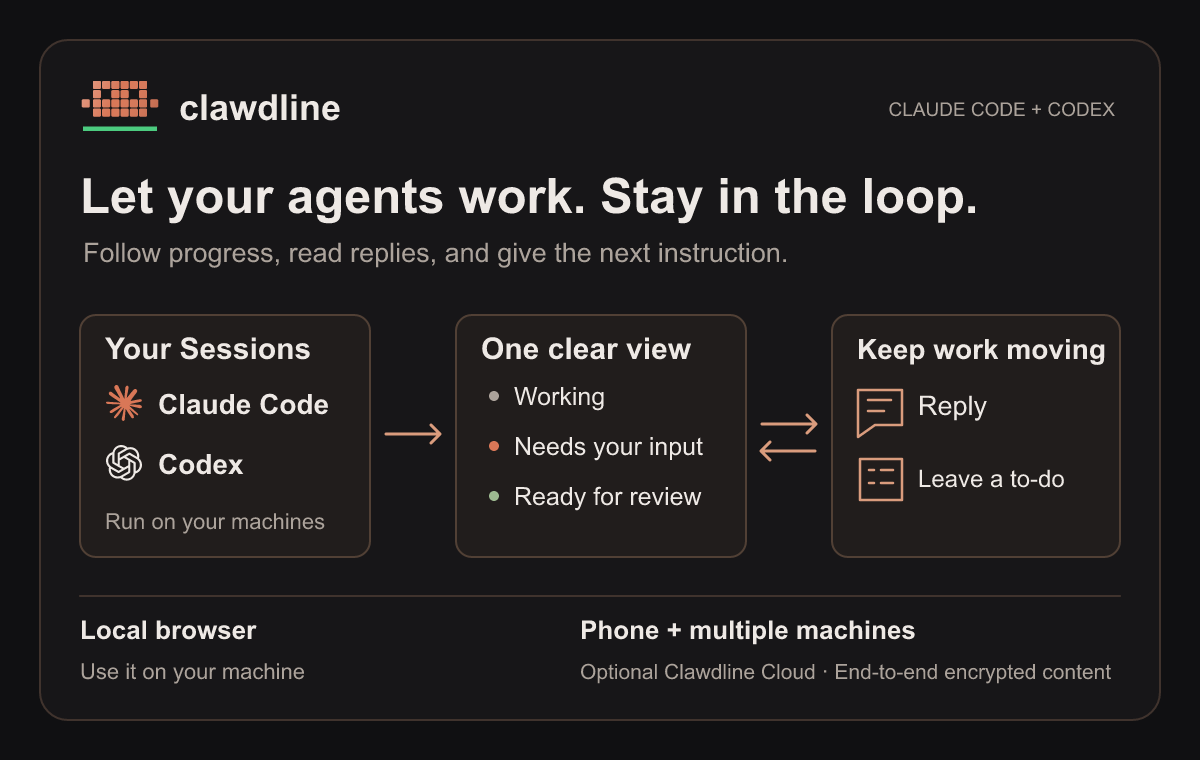
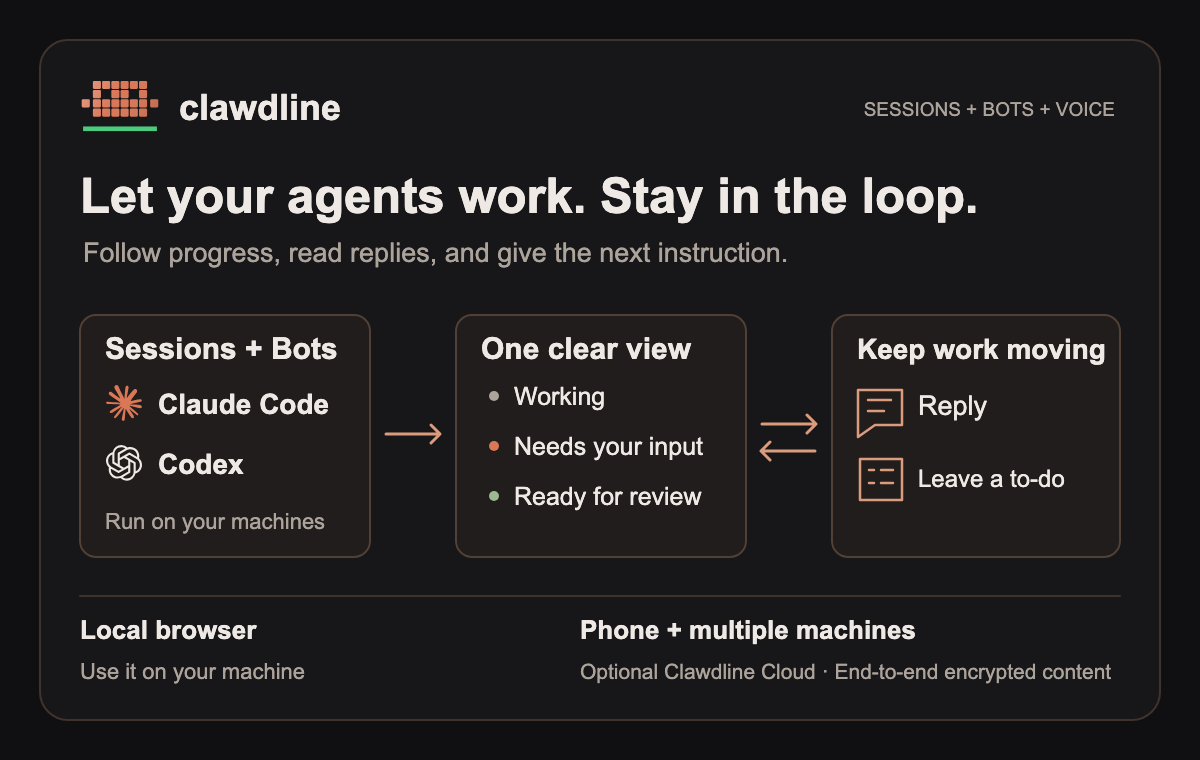
The README opens with Sessions and Bots, the voice copilot, the Bots tower and Lantern Deep
Both READMEs now lead with Clawdline's two defining traits, Sessions and Bots
on one platform and the voice copilot, followed by the Bots tower and the
Lantern Deep view, each with a language-matched image. The voice section moved
up from further down. The overview diagram's first column now reads Sessions +
Bots and its corner label names the voice copilot.

The tower images are the synthetic Bots fixture captured with headless
Chromium at 1440x900, 2x; the Lantern Deep images are cropped from the curated
catalog preview. No real Session or Bot data appears.

The Herdr and T3 Code comparison was rechecked against herdr.dev, the
herdr-app README, the T3 Code README and its remote-access guide on
2026-11-22. Herdr's phone app accepts voice input and its community gallery
has game-like layouts, so the Clawdline bullet describes what it offers
without claiming either is exclusive.

Left undone: the building cross-section did not finish loading its picture
under headless virtual time, so the single-floor view is shown instead.

Claude-Session: https://claude.ai/code/session_01HoDJHzbyxnKEousjQxutd9

diff --git a/README.zh-TW.md b/README.zh-TW.md
@@ -7,15 +7,45 @@
 [![License](https://img.shields.io/badge/license-MIT-blue.svg)](LICENSE)
 [![Go](https://img.shields.io/badge/Go-1.25-00ADD8.svg)](go.mod)
 
-**透過 Clawdline Cloud，在手機同一份清單查看多台機器的 Claude Code 和 Codex Session，點開就能回覆或留待辦。**
+**Clawdline 把你的 Claude Code、Codex Session 與長期陪你工作的 Bot 整合在同一個平台，還有一位能直接打電話詢問的語音助理，告訴你哪裡需要你。**
 
-![Clawdline 將 Claude Code 與 Codex Session 集中在同一處，讓你掌握進度、回覆並留待辦；本機瀏覽器在你的機器上使用，選用 Cloud 可從手機及多台機器接續工作。](docs/assets/readme-overview-zh-Hant.png)
+![Clawdline 將 Session 與 Bot 集中在同一處，讓你掌握進度、回覆並留待辦；本機瀏覽器在你的機器上使用，選用 Cloud 可從手機及多台機器接續工作。](docs/assets/readme-overview-zh-Hant.png)
+
+### 🧩 Session 與 Bot 整合在同一個平台
+
+**Session** 是你原本就在用的 Claude Code、Codex 對話；**Bot** 是綁定在某個 Project 的長期助理：記得你交代過的事，用它所屬 Agent 的工具在專案裡工作，較大的修改則透過 Clawdline 的 Broker 交給隔離的 worker（與 Session 派工走同一條路），結果再回到同一個聊天室。兩者都在同一個主控台，旁邊就是終端機、選用的看板與通知。Bot 目前在 macOS 上執行。[Session](docs/user/sessions.md)・[Bot](docs/bots.md)
+
+### 🎙 用語音掌握你的 Session
+
+打給語音助理，聽它回報哪裡需要你、查詢 Session 進度或留言板目前的 Lead，並開啟相關對話。送訊息前，它會先念出收件 Session 與完整內容，等你同意才送出。綠色膠囊保留當通工具紀錄，常用指令在同區右側，下方顯示時間與金額。
+
+<a href="https://clawdline.com/docs/voice-copilot/"><img src="docs/assets/voice-copilot-call-zh-tw.png" width="390" alt="語音助理回報示範 Session，顯示綠色工具膠囊、右側常用指令、通話時間與金額。" /></a>
+
+*目前 Cloud／dev 介面，使用合成示範資料。語音通話使用你自己的 OpenAI API key。*
+
+[語音助理使用指南與示範](https://clawdline.com/docs/voice-copilot/?lang=zh-TW) · [桌機影片（2:43）](https://media.clawdline.com/voice-copilot/demo-zh-Hant-f3a541a44435.mp4) · [手機影片（2:35）](https://media.clawdline.com/voice-copilot/demo-zh-Hant-phone-c85af090b6cb.mp4)。實際 GPT-Live 通話使用虛構 Session 與預錄的 AI 使用者語音，畫面金額為示例。先保留 30 秒通話畫面，再縮小圓球、收成浮球後操作。
+
+### 🏙 Bot 住在一棟大樓裡
+
+![Bots 大樓：像素風的賽博龐克樓層，工作中的 Bot 坐在辦公桌前並掛著名牌，等待允許的 Bot 排隊，有新回覆的 Bot 帶著標記，上方計數列顯示 Bot、等你、工作中與新回覆的數量。](docs/assets/bots-tower-zh-Hant.webp)
+
+把 Bots 切換到大樓檢視，每個 Project 會分到像素風大樓裡的一層樓。工作中的 Bot 坐在辦公桌前，等你的排隊，出錯的到維修角落，閒置的在休息區散步，一天沒動靜的就去睡覺。有未讀回覆的 Bot 會帶著「有新回覆」標記；點一下 Bot 就能打開它的聊天室，樓層畫面照常運作。[Bots 大樓](docs/bots.md#the-bots-tower)
+
+*畫面為合成的示範 Bot。*
+
+### 🏮 燈淵：把 Session 變成一場遊戲
+
+![燈淵：手繪的地底洞窟，每個 Session 都是一位小旅人；兩位需要你的旅人站在燈下一臉疑惑，其他旅人巡邏或休息，空中有生物飄過。](docs/assets/lantern-deep-zh-Hant.webp)
+
+安裝燈淵視圖後，每個 Project 都是一座手繪的地底洞室，每個 Session 則是十二位逐格動畫小旅人之一。工作中的旅人在戰鬥，需要你的站在暖光燈下一臉疑惑，工作完成的在營火旁休息或睡覺；頭上的生命條代表剩下多少 context。點選旅人就能打開它的 Session。燈淵是實驗中的 View Plugin，可在「探索視圖」安裝。[燈淵](plugins/session-lantern-deep/README.md)・[View Plugin](docs/plugins/view-plugin-v1.md)
+
+*畫面為合成的示範 Session；靜態圖暫停了動畫。*
 
 ## 與 Herdr、T3 Code 的差異
 
-- 🖥 **Herdr：在持續運行的終端執行 Agent 的桌面與手機 App。** Agent 在本機與 SSH 機器的終端持續運行，先列出需要你處理的 Agent，Agent 也能派出幫手並收到回報。提供 macOS、Windows、Linux 原生 App，iPhone、iPad、Android 手機 App，以及原本的 TUI。[Herdr 官網](https://herdr.dev/)・[桌面 App](https://github.com/herdrdev/herdr-app#readme)・[herdr-core](https://github.com/herdrdev/herdr-core#readme)
-- 💬 **T3 Code：操作程式開發 Agent 的 App。** 透過桌機、網頁與手機 App 操作 Agent，支援本機與遠端環境。[T3 Code 介紹](https://github.com/pingdotgg/t3code#readme)・[遠端存取](https://github.com/pingdotgg/t3code/blob/main/docs/user/remote-access.md)
-- 🔁 **Clawdline：協調 Session，追蹤工作交付。** 在瀏覽器集中管理已使用的 Claude Code 和 Codex Session；留下待辦、回答 Agent 便條並派工，選用看板追蹤驗證、合併與部署；清楚區分「Agent 回報完成」與「已驗證合併」。選用 Cloud 後，也能從手機同一份清單掌握多台機器。[Session](docs/user/sessions.md)・[派工](docs/user/clawdfather-and-dispatch.md)・[看板](docs/user/board.md)
+- 🖥 **Herdr：管理終端機與程式開發 Agent 的桌面 App。** 用 space 整理工作、先看到哪些 Agent 需要你，並透過 herdr-core 讓本機與 SSH 機器上的終端機持續運行；Agent 也能派出幫手並收到回報。提供 macOS、Windows、Linux 原生 App，iPhone、iPad、Android 手機 App，另有獨立的 TUI，以及社群製作的版面與 mod 圖庫。[Herdr 官網](https://herdr.dev/)・[桌面 App](https://github.com/herdrdev/herdr-app#readme)・[herdr-core](https://github.com/herdrdev/herdr-core#readme)
+- 💬 **T3 Code：開源的程式開發 Agent 控制台。** 透過桌機、網頁與手機 App 操作 Claude Code、Codex、Cursor、OpenCode 及其他 ACP Agent；可經 T3 Connect、區域網路、Tailscale 或 SSH 連接其他機器，也能讓一個 Agent 把任務交給另一個。[T3 Code 介紹](https://github.com/pingdotgg/t3code#readme)・[遠端存取](https://github.com/pingdotgg/t3code/blob/main/docs/user/remote-access.md)
+- 🔁 **Clawdline：Session 與 Bot 集中在一處，再加上語音助理。** 在瀏覽器主控台集中你已在用的 Claude Code、Codex Session 與綁定 Project 的長期 Bot；打給語音助理聽它回報哪裡需要你，也能用 Bots 大樓或燈淵這類遊戲視圖看工作進展。留下待辦、回答 Agent 便條並派工，選用看板追蹤驗證、合併與部署；清楚區分「Agent 回報完成」與「已驗證合併」。選用 Cloud 後，也能從手機同一份清單掌握多台機器。[Session](docs/user/sessions.md)・[Bot](docs/bots.md)・[語音助理](docs/user/voice-copilot.md)・[看板](docs/user/board.md)
 
 ## 你可以做什麼
 
@@ -47,16 +77,6 @@
 - 💡 **問答、Issues 與 Ideas 社群（Cloud）** — 閱讀討論、詢問使用方式、回報問題與提出功能建議。任何人都能閱讀，登入後可參與；回覆與實際交付進度分開追蹤。[社群指南](docs/user/help-center.zh-TW.md)・[公開邊界](docs/cloud-support.md)
 
 Clawdline 的常駐服務與主控台在你的機器上執行，管理你已使用的 Claude Code 和 Codex Session。Cloud 是選用功能；中繼只傳送密文。[運作方式](docs/architecture.md)
-
-## 用語音掌握你的 Session
-
-打給語音助理，聽它回報哪裡需要你、查詢 Session 進度或留言板目前的 Lead，並開啟相關對話。送訊息前，它會先念出收件 Session 與完整內容，等你同意才送出。綠色膠囊保留當通工具紀錄，常用指令在同區右側，下方顯示時間與金額。
-
-<a href="https://clawdline.com/docs/voice-copilot/"><img src="docs/assets/voice-copilot-call-zh-tw.png" width="390" alt="語音助理回報示範 Session，顯示綠色工具膠囊、右側常用指令、通話時間與金額。" /></a>
-
-*目前 Cloud／dev 介面，使用合成示範資料。語音通話使用你自己的 OpenAI API key。*
-
-[語音助理使用指南與示範](https://clawdline.com/docs/voice-copilot/?lang=zh-TW) · [桌機影片（2:43）](https://media.clawdline.com/voice-copilot/demo-zh-Hant-f3a541a44435.mp4) · [手機影片（2:35）](https://media.clawdline.com/voice-copilot/demo-zh-Hant-phone-c85af090b6cb.mp4)。實際 GPT-Live 通話使用虛構 Session 與預錄的 AI 使用者語音，畫面金額為示例。先保留 30 秒通話畫面，再縮小圓球、收成浮球後操作。
 
 ## 跨機器 Session 協作（Cloud）
 

diff --git a/README.md b/README.md
@@ -7,15 +7,45 @@
 [![License](https://img.shields.io/badge/license-MIT-blue.svg)](LICENSE)
 [![Go](https://img.shields.io/badge/Go-1.25-00ADD8.svg)](go.mod)
 
-**With Clawdline Cloud, see Claude Code and Codex Sessions across your machines in one phone list, then open one to reply or leave a to-do.**
+**Clawdline brings your Claude Code and Codex Sessions and your long-lived Bots onto one platform, and gives you a voice copilot you can call to hear what needs you.**
 
-![Clawdline brings Claude Code and Codex Sessions into one view so you can follow progress, reply and leave to-dos. Local browser use runs on your machine; optional Cloud adds phones and multiple machines.](docs/assets/readme-overview-en.png)
+![Clawdline brings Sessions and Bots into one view so you can follow progress, reply and leave to-dos. Local browser use runs on your machine; optional Cloud adds phones and multiple machines.](docs/assets/readme-overview-en.png)
+
+### 🧩 Sessions and Bots on one platform
+
+**Sessions** are the Claude Code and Codex conversations you already run. **Bots** are long-lived assistants bound to a Project: they remember what you tell them, work with their agent's own tools, and hand larger changes to an isolated worker through Clawdline's Broker, the same path Sessions use to dispatch work, with the result returning to the same chat. Both live in one console, beside the terminal, the optional Board and notifications. Bots currently run on macOS. [Sessions](docs/user/sessions.md) · [Bots](docs/bots.md)
+
+### 🎙 A voice copilot for your Sessions
+
+Call the voice copilot to hear what needs you, ask about a Session's progress or a message board's current Lead, and open the relevant conversation. It reads the full recipient and message back for your agreement before sending. Green capsules keep the call's tool activity, with quick commands beside them and duration and amount below.
+
+<a href="https://clawdline.com/docs/voice-copilot/"><img src="docs/assets/voice-copilot-call-en.png" width="390" alt="Voice copilot reporting on sample Sessions, with green tool-history capsules, Quick commands, call duration and amount." /></a>
+
+*Current Cloud/dev interface with synthetic example data. Voice calls use your own OpenAI API key.*
+
+[Voice copilot guide and demo](https://clawdline.com/docs/voice-copilot/) · [Desktop video (1:51)](https://media.clawdline.com/voice-copilot/demo-en-d2857cd36962.mp4) · [Phone video (1:55)](https://media.clawdline.com/voice-copilot/demo-en-phone-21cfaf2e686a.mp4). Recorded GPT-Live calls with fictional Sessions and prerecorded AI user speech; on-screen amounts are examples. The call sheet stays open for 30 seconds before shrinking to a floating bubble.
+
+### 🏙 Your Bots live in a tower
+
+![The Bots tower: a pixel-art cyberpunk floor where working Bots sit at desks with name tags, a Bot waiting for permission stands in line, Bots with new replies carry a badge, and a counter bar shows Bots, waiting, working and new replies.](docs/assets/bots-tower-en.webp)
+
+Switch Bots to the tower view and every Project gets a floor of a pixel-art building. Working Bots sit at desks, waiting ones queue, failing ones go to the repair corner, idle ones stroll the lounge, and Bots quiet for a day go to sleep. A New reply badge marks unread replies, and selecting a Bot opens its chat while the floor keeps running. [The Bots tower](docs/bots.md#the-bots-tower)
+
+*Synthetic example Bots.*
+
+### 🏮 Lantern Deep: watch your Sessions as a game
+
+![Lantern Deep: a hand-painted cavern where Sessions are small wanderers; two stand puzzled under a lantern because they need you, others patrol and rest, and creatures drift through the air.](docs/assets/lantern-deep-en.webp)
+
+Install the Lantern Deep view and every Project becomes a hand-painted underground chamber, every Session one of twelve frame-by-frame animated wanderers. A working wanderer fights, one that needs you stands puzzled under a warm beacon, and finished work rests or sleeps by the campfire. A life bar shows how much context is still free. Select a wanderer to open its Session. Lantern Deep is an experimental View Plugin offered under Explore views. [Lantern Deep](plugins/session-lantern-deep/README.md) · [View Plugins](docs/plugins/view-plugin-v1.md)
+
+*Synthetic example Sessions; motion is paused in the still image.*
 
 ## How Clawdline differs from Herdr and T3 Code
 
-- 🖥 **Herdr — desktop and phone apps for Agents in persistent terminals.** Run Agents in terminals that keep going on local and SSH machines, see which ones need you first, and let an Agent start helper Agents and hear back. Native apps for macOS, Windows and Linux, a phone app for iPhone, iPad and Android, and the original TUI. [Herdr](https://herdr.dev/) · [Desktop app](https://github.com/herdrdev/herdr-app#readme) · [herdr-core](https://github.com/herdrdev/herdr-core#readme)
-- 💬 **T3 Code — an app for working with coding Agents.** Control Agents through desktop, web and mobile apps, including local and remote environments. [T3 Code overview](https://github.com/pingdotgg/t3code#readme) · [Remote access](https://github.com/pingdotgg/t3code/blob/main/docs/user/remote-access.md)
-- 🔁 **Clawdline — coordinate Sessions and track delivery.** Bring your existing Claude Code and Codex Sessions into a browser console. Leave to-dos, answer Agent notes, dispatch work, and track verification, merge and deployment on the optional Board. A delivery report and a verified Git landing stay distinct. Cloud adds one phone list across machines. [Sessions](docs/user/sessions.md) · [Dispatch](docs/user/clawdfather-and-dispatch.md) · [Board](docs/user/board.md)
+- 🖥 **Herdr — a desktop app for terminals and coding agents.** Keep work in spaces, see which agents need you, and leave terminals running on local and SSH machines through herdr-core. An agent can start helpers and hear back. Native apps for macOS, Windows and Linux, phone apps for iPhone, iPad and Android, a separate TUI, and a community gallery of layouts and mods. [Herdr](https://herdr.dev/) · [Desktop app](https://github.com/herdrdev/herdr-app#readme) · [herdr-core](https://github.com/herdrdev/herdr-core#readme)
+- 💬 **T3 Code — an open-source control plane for coding agents.** Drive Claude Code, Codex, Cursor, OpenCode and other ACP agents through desktop, web and mobile apps, connect other machines over T3 Connect, LAN, Tailscale or SSH, and let one agent delegate a task to another. [T3 Code overview](https://github.com/pingdotgg/t3code#readme) · [Remote access](https://github.com/pingdotgg/t3code/blob/main/docs/user/remote-access.md)
+- 🔁 **Clawdline — Sessions and Bots in one place, with a voice copilot.** Bring your existing Claude Code and Codex Sessions and long-lived Project Bots into one browser console. Call the voice copilot to hear what needs you, and follow the work as a Bots tower or in a game view such as Lantern Deep. Leave to-dos, answer Agent notes, dispatch work, and track verification, merge and deployment on the optional Board; a delivery report and a verified Git landing stay distinct. Cloud adds one phone list across machines. [Sessions](docs/user/sessions.md) · [Bots](docs/bots.md) · [Voice copilot](docs/user/voice-copilot.md) · [Board](docs/user/board.md)
 
 ## What you can do
 
@@ -49,16 +79,6 @@
 Clawdline runs the daemon and console on your machine and works with Claude Code and Codex Sessions you already use. Cloud is optional; its relay carries encrypted data. [How it works](docs/architecture.md)
 
 Official [Grok Build coding Sessions](docs/grok-cli.md) also support native file edits, tool approvals and worktree dispatch after CLI sign-in.
-
-## Talk to your Sessions by voice
-
-Call the voice copilot to hear what needs you, ask about a Session's progress or a message board's current Lead, and open the relevant conversation. It reads the full recipient and message back for your agreement before sending. Green capsules keep the call's tool activity, with quick commands beside them and duration and amount below.
-
-<a href="https://clawdline.com/docs/voice-copilot/"><img src="docs/assets/voice-copilot-call-en.png" width="390" alt="Voice copilot reporting on sample Sessions, with green tool-history capsules, Quick commands, call duration and amount." /></a>
-
-*Current Cloud/dev interface with synthetic example data. Voice calls use your own OpenAI API key.*
-
-[Voice copilot guide and demo](https://clawdline.com/docs/voice-copilot/) · [Desktop video (1:51)](https://media.clawdline.com/voice-copilot/demo-en-d2857cd36962.mp4) · [Phone video (1:55)](https://media.clawdline.com/voice-copilot/demo-en-phone-21cfaf2e686a.mp4). Recorded GPT-Live calls with fictional Sessions and prerecorded AI user speech; on-screen amounts are examples. The call sheet stays open for 30 seconds before shrinking to a floating bubble.
 
 ## Sessions that work across machines (Cloud)
 

diff --git a/docs/share-images.md b/docs/share-images.md
@@ -16,6 +16,14 @@ green underline. Regenerate the cross-machine diagrams with
 `python3 tools/render-cross-machine-diagram.py`; render each editable overview SVG
 with the pinned Resvg version above after changing its artwork. The diagrams retain
 their existing text, dimensions and workflow layout.
+On 2026-11-22 the overview's first column and corner label changed to name
+Sessions, Bots and the voice copilot; that revision was rasterized from the SVG
+with headless Chromium because Resvg was not installed locally.
+
+The README highlight screenshots use synthetic data only: `bots-tower-{en,zh-Hant}.webp`
+is the Bots tower fixture (`web/console/tools/fixtures/project-assistants.html`)
+captured at 1440 × 900, 2×, and cropped to the scene; `lantern-deep-{en,zh-Hant}.webp`
+is cropped from the curated Lantern Deep preview in `web/console/public/view-plugins/previews/`.
 
 The macOS notch draws the same rounded orange mascot natively through
 `shell/darwin/RoundedBrandMascot.swift`. Its coordinates and warm-light gradient
